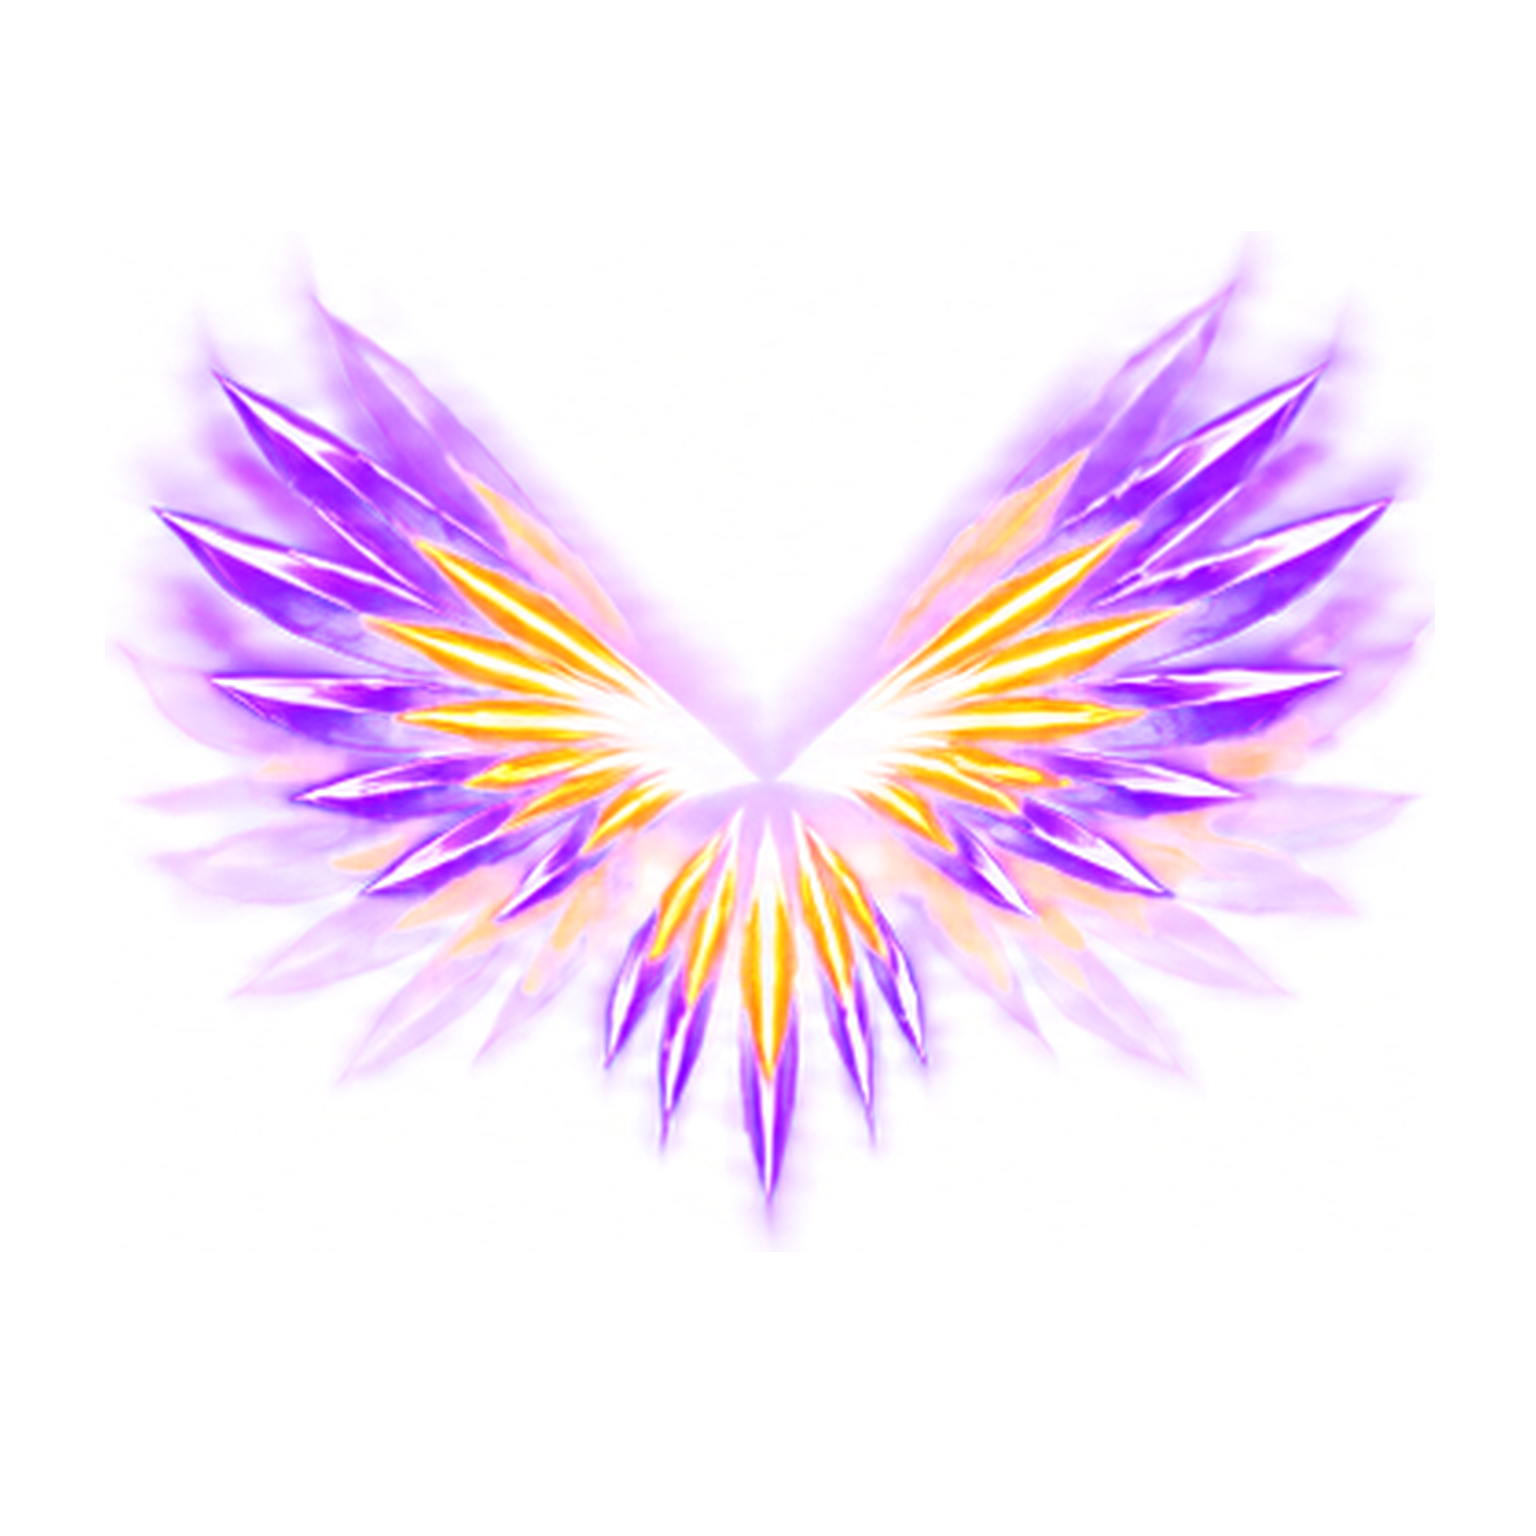
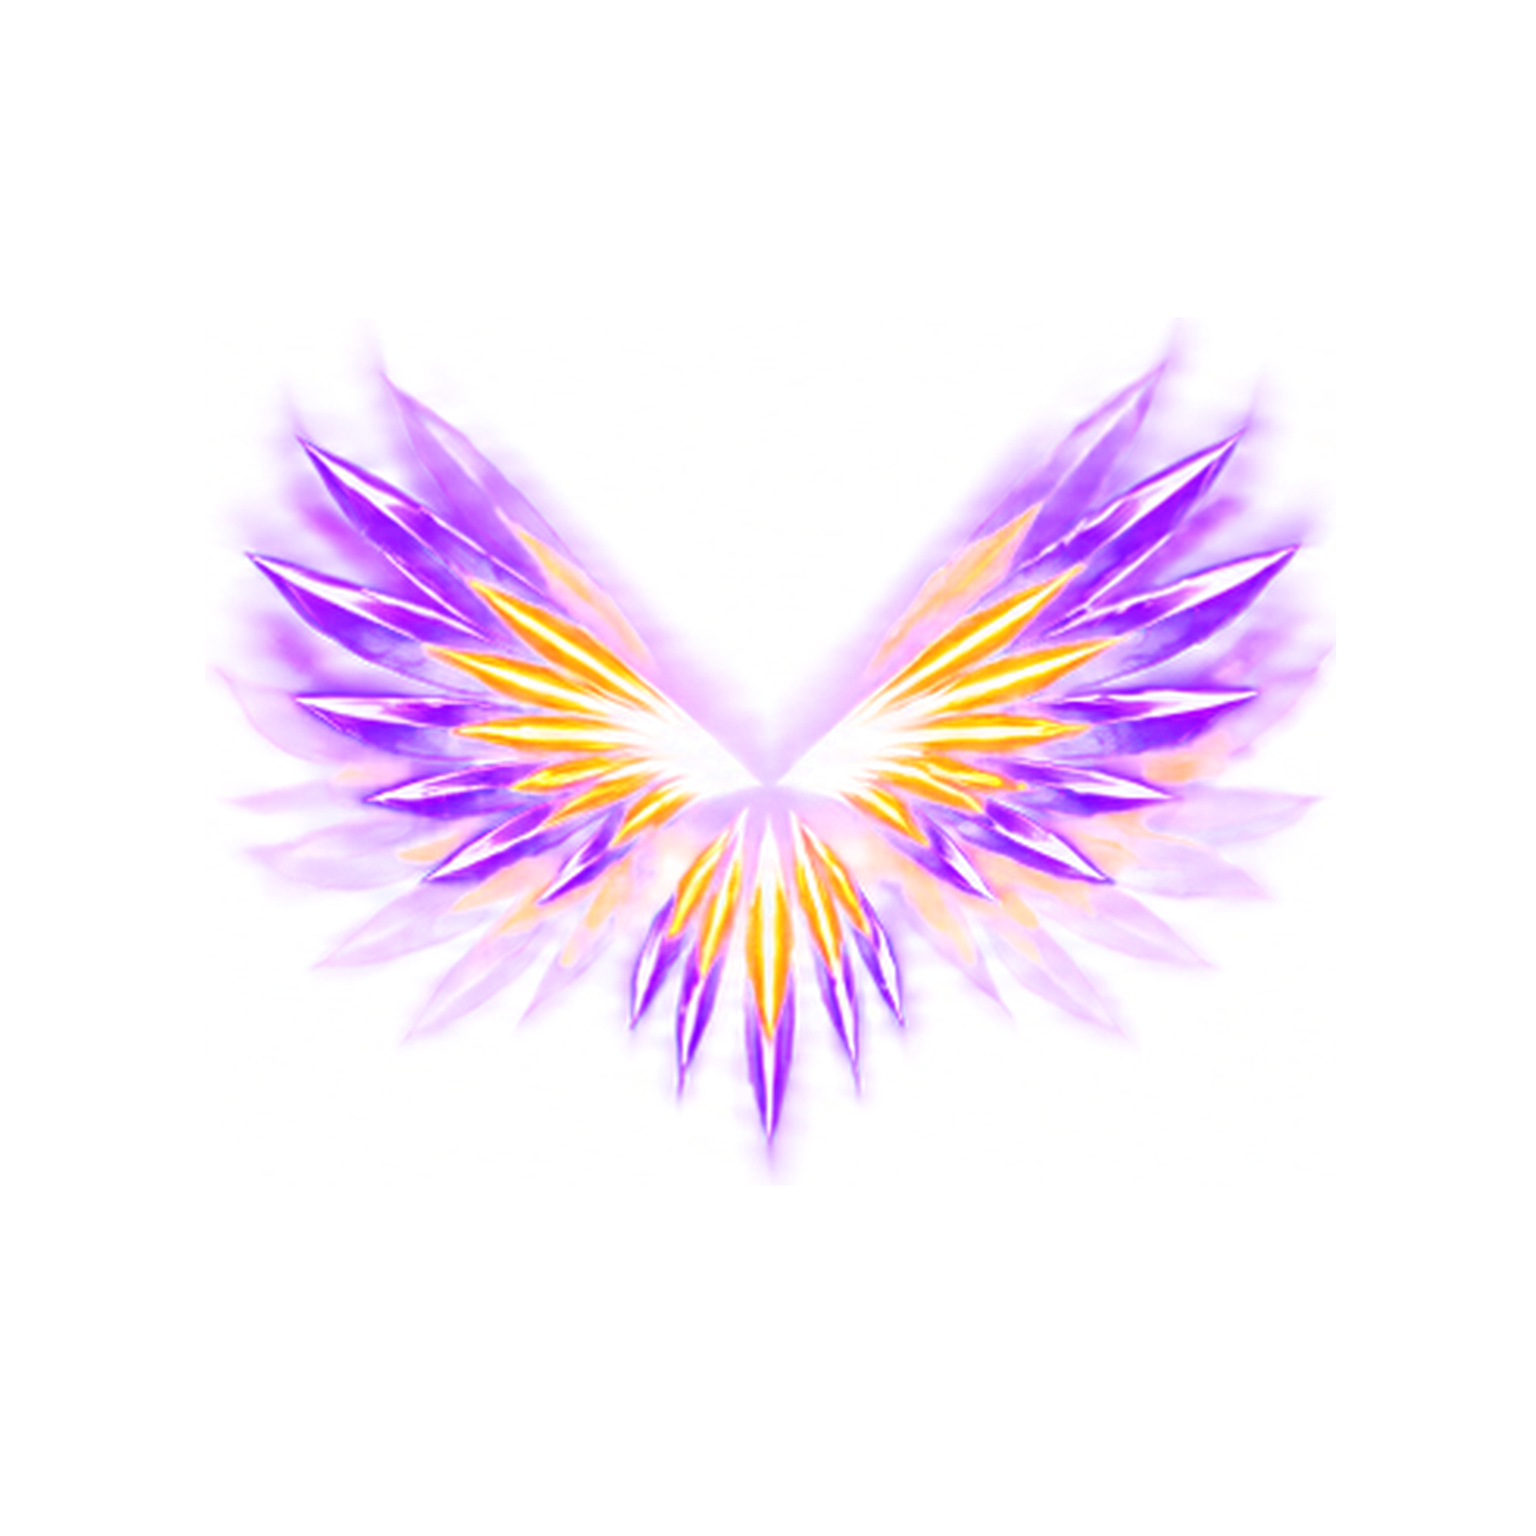
V307: thu nhỏ 15 % cánh Bạo Tẩu tàu 1 bậc Tím/Tím+5/SS; tin GPT dáng riêng 6 bậc
Claude-Session: https://claude.ai/code/session_01EV2aanpnRJKoE2xDMNzcPh

Changed region(s): [[0.0625, 0.1562, 0.9375, 0.8125]]

diff --git a/CLAUDE.md b/CLAUDE.md
@@ -68,4 +68,4 @@ Luật phong cách chi tiết + nhật ký quyết định: `docs_claude/CHUAN_P
 - **B9 đồng bộ V307 (18/11)**: `src/b9307.js/.css` + `src/b9img/` (global `B9307_IMG`, ảnh ghép 9-slice bằng `claude_tools/chin_o.py` đúng cỡ gốc): ghi đè biến chung `--u18-sec/-p/-d` (nút xanh B9), `--u18-chip/-on` (tab ngang B9), `--u18-x/-close` (nut_dong B5), `--u18-panel` (khung B6), `--u18-title` trên `html.b9307` → đổi màu nút phụ / tab khắp game. Thanh đầu `#hub40 .hb-top` và `#cmap .cm-head` dùng thanh tiêu đề B9; nút ‹ › chương = nut_quay_lai. Màn Rương: băng tranh + 3 rương. Phó bản: nút `[data-difficulty]` 0–3 dùng khung hàng B4 Trắng/Lục/Lam/Tím. `hang_tui_tim` đã cắt bỏ lề trong suốt 57 px. Biểu tượng Tự diễn thay bằng bản B9. Tắt `window.B9307=false`. Lượt kế: tin GPT `GUI_GPT_V307_B10_BAN_DO_TRAN_SANH.txt` (ô ải, HUD trong trận, ô sảnh, thanh tab đáy).
 - **B10 bản thử V307 (18/11)**: `src/b10307.js/.css` + `src/b10img/` (global `B10307_IMG`, biến `--x10-*`): ô ải lục giác (`#cmap .cm-node` thường/done/cur/lock/mini/major), nhãn ải `.cm-gift/.cm-more` (nhan_ai cắt sát), nút Tuần tra `.n74pat`, thanh boss `.bb-tube/#bossfill`, nút tạm dừng `#pause`, vòng nút tên lửa/bom qua biến `--hud-frame-round` (ảnh đục lỗ giữa), ô sảnh `.c307b` (QUÀ vàng), nút hai bên `.l74-b>i`, ô chọn tàu `#hb-strip .hb-th`, tab đáy `#nav74` (tab cắt sát bbox), thẻ phi công sảnh `#lb68 .lb68-card` khung hàng B4. CHƯA dùng: thanh máu/Bạo Tẩu người chơi (vẽ trên canvas), khung_diem (bảng lực chiến đè hàng kim cương → bỏ), sao nhỏ (vẽ canvas), lớp hồi chiêu. Tắt `window.B10307=false`. Chờ GPT: `GUI_GPT_V307_B11_SANH_VONG_QUAY.txt`, `GUI_GPT_V307_TAU1_PHONG_CACH_B.txt` (zip trong `/home/claude/goi_gpt/`).
 - **B11 bản thử V307 (18/11)**: `src/b11307.js/.css` + `src/b11img/` (global `B11307_IMG`, biến `--x11-*`): nền sảnh GPT phủ lên `.sk307` (ẩn SVG sanh307), nút `#lb68 .cta.c` (XUẤT KÍCH) / `.cta.e` (VÔ TẬN) thường + nhấn, vòng quay: vành `.w74wrap::after` (zoom .72), kim `.w74ptr`, nút giữa `.w74hub`; 10 ô thưởng vẫn vẽ bằng conic-gradient (ô quạt GPT chỉ ~19°, cần 36°). Chưa dùng: bệ tàu (nền đã có bệ), bảng lực chiến. Tắt `window.B11307=false`. Tàu 1 phong cách mới: chỉ ghép thử ngoài bản dựng (`/home/claude/thu_tau1/`, chèn `SHIP118[0]` trước `v117-js`); ảnh tàu trong zip B11 là bản 1, bản mới nhất là ảnh chủ dự án gửi trong chat; tin sửa `GUI_GPT_V307_TAU1_PHONG_CACH_B_SUA4.txt`.
-- **Tàu 1 thân thường phong cách mới (chốt 18/11)**: `src/ship118/tau1_{thuong,luc,lam,tim,tim5,ss}.png` = GPT phủ chất liệu lên khung cũ (bản cân bằng) + tăng sáng bằng mã; ghi ở đầu `CHUAN_PHONG_CACH_DA_CHOT.md`. Bạo Tẩu tàu 1 (thân `_bt` + năng lượng) còn kiểu cũ → tin GPT `GUI_GPT_V307_TAU1_BAO_TAU_PHONG_CACH_MOI.txt` (chùm lông lửa tỏa nan quạt hai bên/sau như dòng phượng hoàng game gốc, phiến dày lõi sáng, không tua rủ). - **Bạo Tẩu tàu 1 phong cách mới (ghép thử 18/11, chờ chủ dự án xem)**: thân `src/ship118/tau1_<t>_bt.png` (GPT, QBT 0,8, ngọc lục giác thẳng ngọc thân thường); cánh năng lượng `src/btfx218/tau1_fx_p307_<t>.png` (1536², ảnh màu dùng thẳng qua `mau`, cờ `keep307` để WC307 không tô lại), sải 2,5×→3,5× thân theo bậc; `PIV[0]=[[241,296],[277,296]]`. Ảnh cũ vẫn trong thư mục (`tau1_fx_<tên cũ>`), quay lại = sửa RAMP[0] trong `src/btfx218.js`.
+- **Tàu 1 thân thường phong cách mới (chốt 18/11)**: `src/ship118/tau1_{thuong,luc,lam,tim,tim5,ss}.png` = GPT phủ chất liệu lên khung cũ (bản cân bằng) + tăng sáng bằng mã; ghi ở đầu `CHUAN_PHONG_CACH_DA_CHOT.md`. Bạo Tẩu tàu 1 (thân `_bt` + năng lượng) còn kiểu cũ → tin GPT `GUI_GPT_V307_TAU1_BAO_TAU_PHONG_CACH_MOI.txt` (chùm lông lửa tỏa nan quạt hai bên/sau như dòng phượng hoàng game gốc, phiến dày lõi sáng, không tua rủ). - **Bạo Tẩu tàu 1 phong cách mới (ghép thử 18/11, chờ chủ dự án xem)**: thân `src/ship118/tau1_<t>_bt.png` (GPT, QBT 0,8, ngọc lục giác thẳng ngọc thân thường); cánh năng lượng `src/btfx218/tau1_fx_p307_<t>.png` (1536², ảnh màu dùng thẳng qua `mau`, cờ `keep307` để WC307 không tô lại), sải 2,5× thân (Thường) → khoảng 3× (Tím/Tím+5/SS, đã thu 15 % ngày 18/11, bản to ở `/home/claude/bt307/goc_to/`); tin GPT lượt kế (mỗi bậc một dáng): `GUI_GPT_V307_TAU1_BAO_TAU_HINH_DANG_6_BAC.txt`; `PIV[0]=[[241,296],[277,296]]`. Ảnh cũ vẫn trong thư mục (`tau1_fx_<tên cũ>`), quay lại = sửa RAMP[0] trong `src/btfx218.js`.
